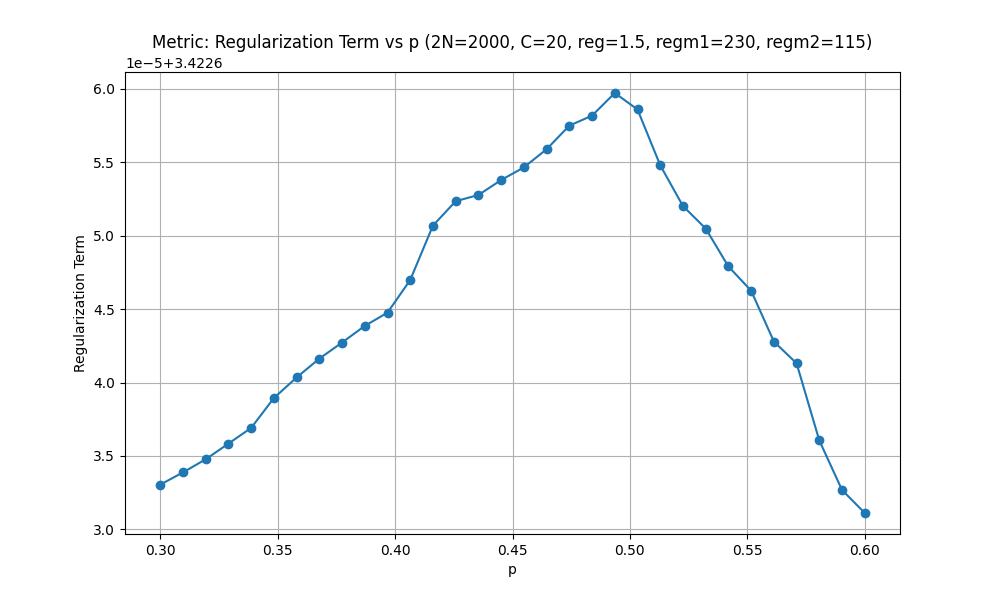
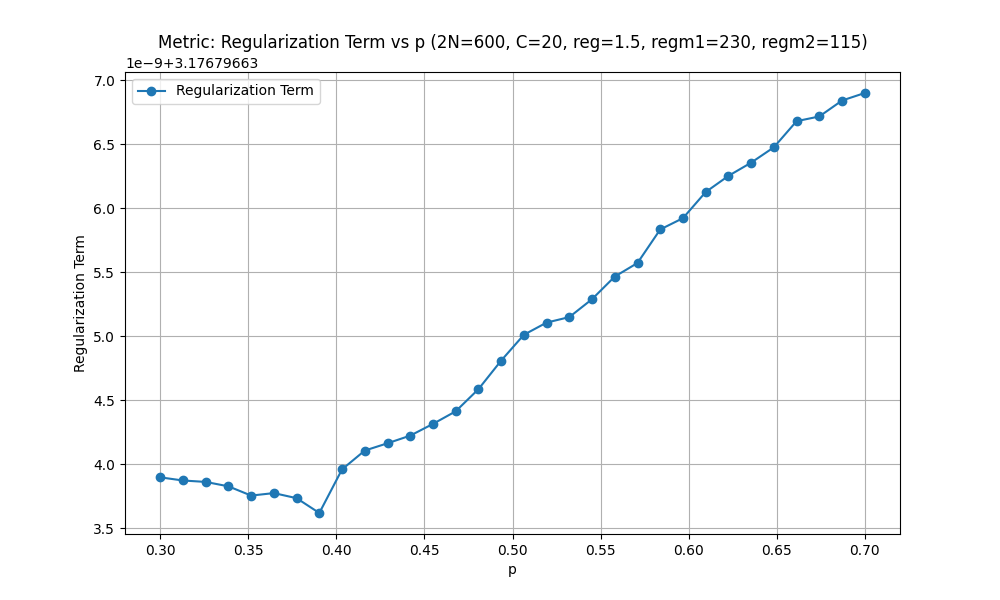
reszta

diff --git a/SimpleDecent/p_curves.py b/SimpleDecent/p_curves.py
@@ -14,9 +14,10 @@ from tqdm import tqdm
 from concurrent.futures import ProcessPoolExecutor, as_completed
 import multiprocessing
 import os
+import ot
 
-# METHOD = "mirror_descent"
-METHOD = "lbfgsb"
+METHOD = "mirror_descent"
+# METHOD = "lbfgsb"
 
 
 def construct_data(N, C, p):
@@ -40,14 +41,14 @@ def construct_data(N, C, p):
 
     c = reg_distribiution(2 * N, C)
 
-    return a, b, c, M
+    return a, b, c, M, v1, v2
 
 
 # Parameters
 regm1 = 230
 regm2 = 115
 reg = 1.5
-N = 400
+N = 300
 C = 20
 max_iter = 1000
 p_values = np.linspace(0.3, 0.7, 32)
@@ -55,7 +56,7 @@ p_values = np.linspace(0.3, 0.7, 32)
 # Construct warmstart
 print("Constructing warmstart...")
 
-a, b, c, M = construct_data(N, C, 0.5)
+a, b, c, M, _, _ = construct_data(N, C, 0.3865)
 _G0 = warmstart_sparse(a, b, C)
 sparse = UtilsSparse(a, b, c, _G0, M, reg, regm1, regm2)
 _G0, _ = sparse.mirror_descent_unbalanced(numItermax=max_iter)
@@ -65,9 +66,9 @@ if METHOD == "lbfgsb":
     save_path = "p_curves_lbfgsb"
     print("Using LBFGSB method.")
     # okazuje sie ze nasz warmstart slabo dziala dla lbfgsb wiec trzeba sie poluzyc tym od md
-    sparse = UtilsSparse(a, b, c, G0, M, reg, regm1, regm2)
-    _G0, _ = sparse.lbfgsb_unbalanced(numItermax=max_iter)
-    G0 = dia_matrix((_G0, sparse.offsets), shape=(sparse.n, sparse.m), dtype=np.float64)
+    # sparse = UtilsSparse(a, b, c, G0, M, reg, regm1, regm2)
+    # _G0, _ = sparse.lbfgsb_unbalanced(numItermax=max_iter)
+    # G0 = dia_matrix((_G0, sparse.offsets), shape=(sparse.n, sparse.m), dtype=np.float64)
 else:
     save_path = "p_curves_md"
     print("Using Mirror Descent method.")
@@ -87,6 +88,8 @@ metrics_s1 = {
     "Regularization Term": new_grid(),
     "Marginal Penalty": new_grid(),
     "Marginal Penalty Normalized": new_grid(),
+    "Total Cost Normalized": new_grid(),
+    "EMD": new_grid(),
 }
 
 os.makedirs(f"plots/{save_path}", exist_ok=True)
@@ -98,7 +101,8 @@ results = []
 
 def process_wrapper(arg_tuple):
     i, p = arg_tuple
-    a, b, c, M = construct_data(N, C, p)
+    a, b, c, M, v1, v2 = construct_data(N, C, p)
+    # G0 = warmstart_sparse(a, b, C)
     sparse = UtilsSparse(a, b, c, G0, M, reg, regm1, regm2)
 
     if METHOD == "lbfgsb":
@@ -112,6 +116,7 @@ def process_wrapper(arg_tuple):
     reg_val = sparse.reg_kl_sparse(G, sparse.offsets)
     marg_rm1 = sparse.marg_tv_sparse_rm1(G, sparse.offsets)
     marg_rm2 = sparse.marg_tv_sparse_rm2(G, sparse.offsets)
+    emd = ot.emd2_1d(x_a=v1, x_b=v2, a=a, b=b, metric="euclidean")
 
     return (
         i,
@@ -121,6 +126,8 @@ def process_wrapper(arg_tuple):
             "Regularization Term": reg_val,
             "Marginal Penalty": marg_rm1 + marg_rm2,
             "Marginal Penalty Normalized": marg_rm1 / regm1 + marg_rm2 / regm2,
+            "Total Cost Normalized": tc + reg_val / reg + marg_rm1 / regm1 + marg_rm2 / regm2,
+            "EMD": emd
         },
     )
 
@@ -145,13 +152,25 @@ for i, metrics in results:
 # Plot curves
 def plot_metric_curve(metric_name, y_vals, x_vals):
     plt.figure(figsize=(10, 6))
-    plt.plot(x_vals, y_vals, marker="o")
+
+    plt.plot(x_vals, y_vals, marker="o", label=metric_name)
+
+    # If metric is EMD, also plot Total Cost
+    if metric_name == "EMD":
+        plt.plot(x_vals, metrics_s1["Total Cost Normalized"], marker="x", linestyle="--", label="Total Cost Normalized")
+        title_metric = "EMD and Total Cost (Normalized)"
+        ylabel = "Value"
+    else:
+        title_metric = metric_name
+        ylabel = metric_name
+
     plt.title(
-        f"Metric: {metric_name} vs p (2N={2 * N}, C={C}, reg={reg}, regm1={regm1}, regm2={regm2})"
+        f"Metric: {title_metric} vs p (2N={2 * N}, C={C}, reg={reg}, regm1={regm1}, regm2={regm2})"
     )
     plt.xlabel("p")
-    plt.ylabel(metric_name)
+    plt.ylabel(ylabel)
     plt.grid(True)
+    plt.legend()
     plt.savefig(f"plots/{save_path}/{metric_name.lower().replace(' ', '_')}.png")
     plt.close()
 

diff --git a/SimpleDecent/marginals.py b/SimpleDecent/marginals.py
@@ -12,8 +12,8 @@ import matplotlib.pyplot as plt
 import numpy as np
 import os
 
-# METHOD = "mirror_descent"
-METHOD = "lbfgsb"
+METHOD = "mirror_descent"
+# METHOD = "lbfgsb"
 
 
 def construct_data(N, C):
@@ -45,15 +45,15 @@ def construct_data(N, C):
 regm1 = 230
 regm2 = 115
 reg = 1.5
-N = 1000
+N = 300
 C = 20
-max_iter = 3000
+max_iter = 1000
 
 # Data
 print("Constructing transport plan...")
 
-v1, v2, a, b, c, M, _G0 = construct_data(N, C)
-sparse = UtilsSparse(a, b, c, _G0, M, reg, regm1, regm2)
+v1, v2, a, b, c, M, G0 = construct_data(N, C)
+sparse = UtilsSparse(a, b, c, G0, M, reg, regm1, regm2)
 _G0, _ = sparse.mirror_descent_unbalanced(numItermax=max_iter)
 G = dia_matrix((_G0, sparse.offsets), shape=(sparse.n, sparse.m), dtype=np.float64)
 
@@ -61,7 +61,7 @@ if METHOD == "lbfgsb":
     save_path = "marginals_lbfgsb"
     print("Using LBFGSB method.")
     # okazuje sie ze nasz warmstart slabo dziala dla lbfgsb wiec trzeba sie poluzyc tym od md
-    sparse = UtilsSparse(a, b, c, G, M, reg, regm1, regm2)
+    sparse = UtilsSparse(a, b, c, G0, M, reg, regm1, regm2)
     _G0, _ = sparse.lbfgsb_unbalanced(numItermax=max_iter)
     G = dia_matrix((_G0, sparse.offsets), shape=(sparse.n, sparse.m), dtype=np.float64)
 else:
@@ -123,11 +123,11 @@ axs[2, 1].set_ylabel("Delta Mass")
 
 # title
 plt.suptitle(
-    f"(2N={2 * N}, C={C}, reg={reg}, regm1={regm1}, regm2={regm2}, maxiter={max_iter})",
+    f"(2N={2 * N}, C={C}, λ={reg}, τ_1={regm1}, τ_2={regm2}, p={0.4})",
     fontsize=16,
 )
 
-plt.tight_layout()
+plt.tight_layout(rect=[0, 0, 1, 0.96])
 
 output_path = f"plots/{save_path}/marginals_comparison_with_deltas.png"
 plt.savefig(output_path, dpi=300)

diff --git a/SimpleDecent/test_utils.py b/SimpleDecent/test_utils.py
@@ -365,14 +365,14 @@ class UtilsSparse:
 
         return np.sum(G_flat * np.log(G_flat / C_flat + 1e-16)) + np.sum(
             C_flat - G_flat
-        )
+        ) * self.reg
 
     def grad_kl_sparse(self, G_data, G_offsets):
         """Gradient of KL divergence for sparse matrix"""
         G_flat = flatten_multidiagonal(G_data, G_offsets)
         C_flat = flatten_multidiagonal(self.c_data, G_offsets)
 
-        grad_flat = np.log(G_flat / C_flat + 1e-16)
+        grad_flat = (np.log(G_flat / C_flat + 1e-16) + 1) * self.reg
         return reconstruct_multidiagonal(grad_flat, G_offsets, self.m) * self.reg
 
     def marg_tv_sparse(self, G_data, G_offsets):
@@ -473,7 +473,7 @@ class UtilsSparse:
         return G, log
 
     def mirror_descent_unbalanced(
-        self, numItermax=1000, step_size=0.0001, stopThr=1e-6, gamma=1.0, patience=100
+        self, numItermax=1000, step_size=0.0001, stopThr=1e-6, gamma=1.0, patience=50
     ):
         """
         Solves the unbalanced OT problem using mirror descent with exponential updates.
